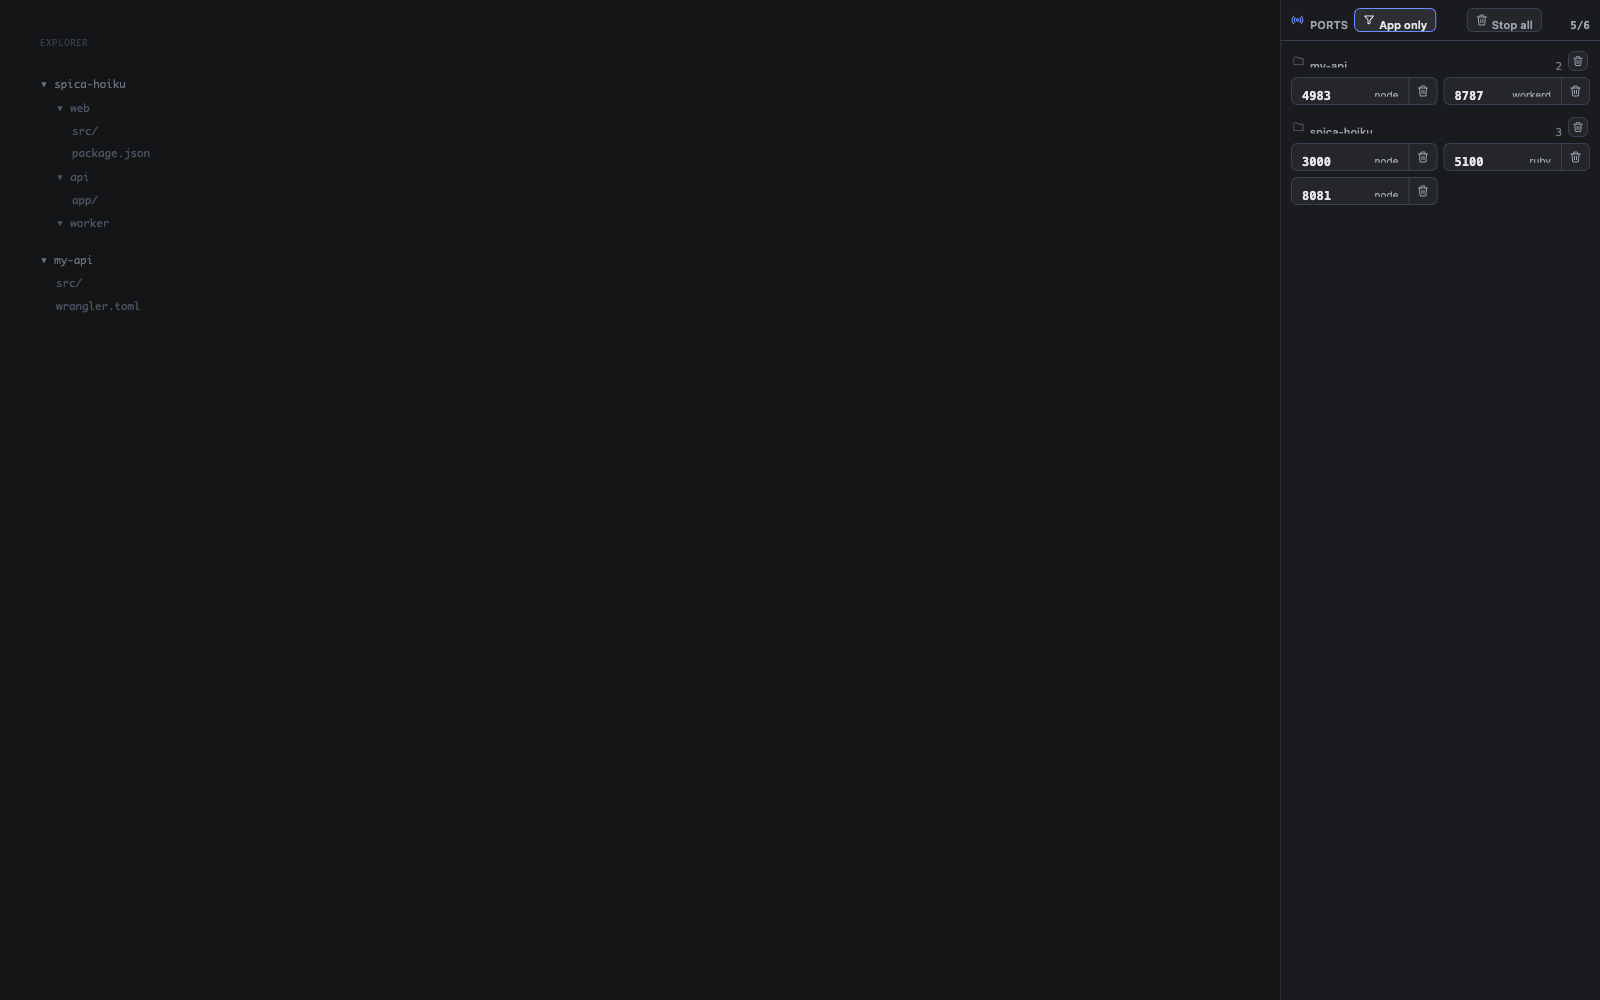
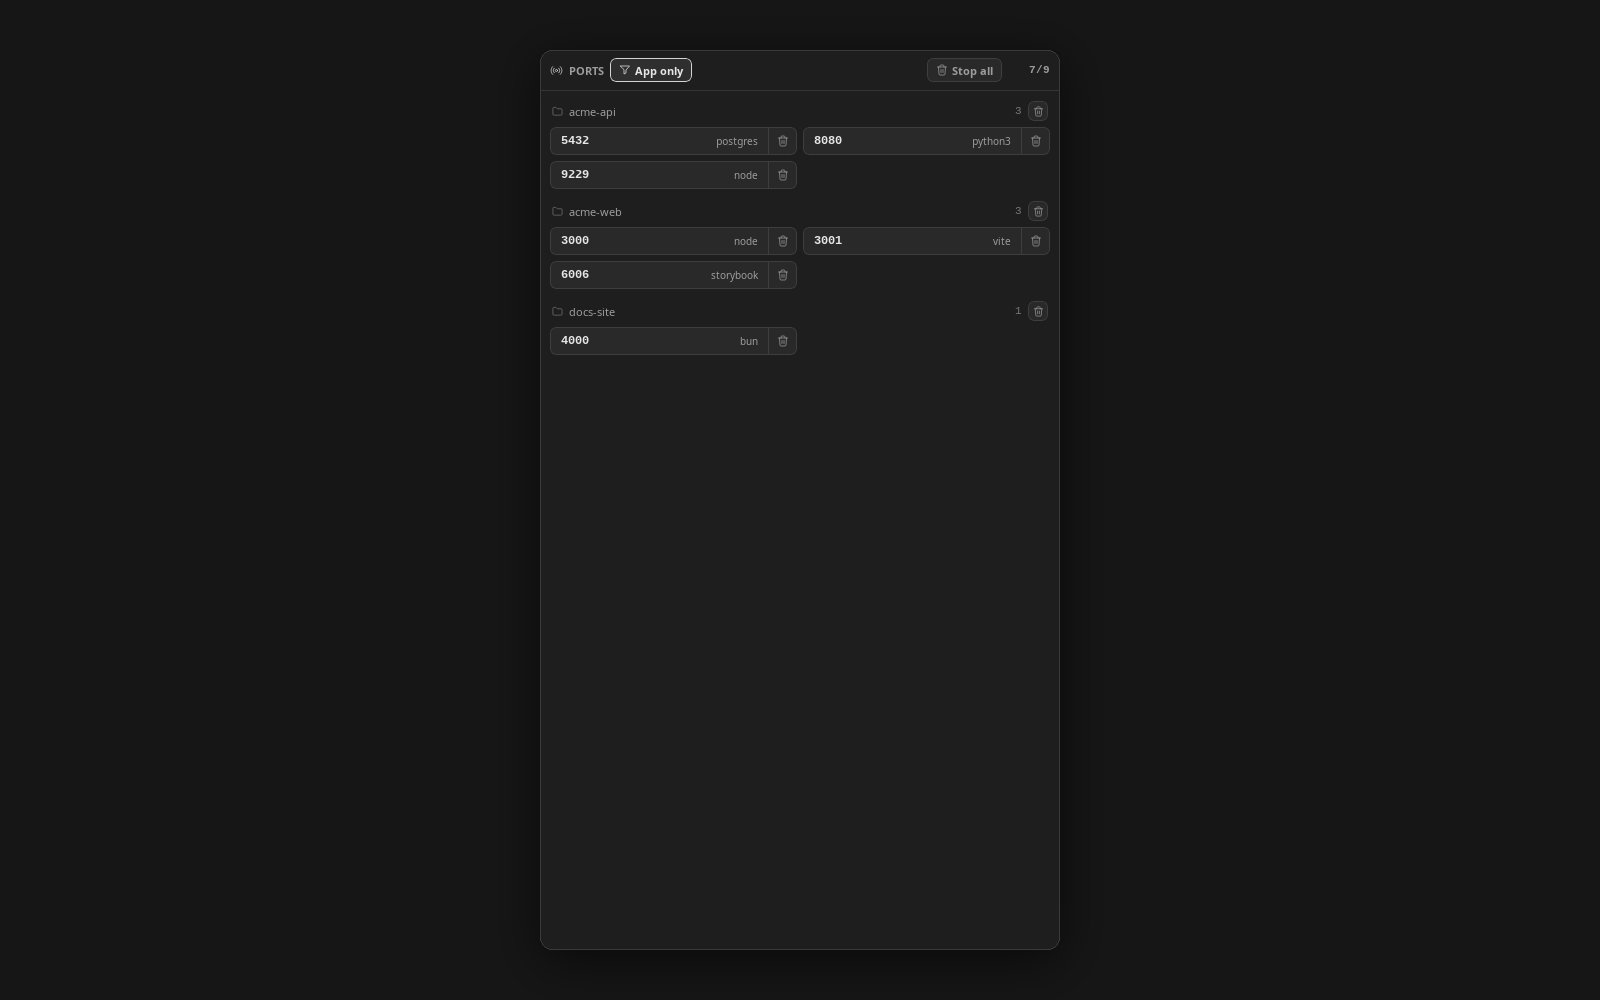
ports 0.1.1: neutral listing screenshot, credits (#24)

diff --git a/tools/harness/fixtures/ports.js b/tools/harness/fixtures/ports.js
@@ -1,0 +1,30 @@
+// Sample listening ports for the ports extension. The real background process scans with lsof
+// and emits extension.ports.data; here the fixture plays that role.
+(() => {
+  const h = window.__harness;
+  const records = [
+    { port: 3000, pid: 41210, command: "node", cwd: "/home/dev/acme-web" },
+    { port: 3001, pid: 41233, command: "vite", cwd: "/home/dev/acme-web/apps/admin" },
+    { port: 6006, pid: 41502, command: "storybook", cwd: "/home/dev/acme-web" },
+    { port: 8080, pid: 40871, command: "python3", cwd: "/home/dev/acme-api" },
+    { port: 5432, pid: 40120, command: "postgres", cwd: "/home/dev/acme-api/db" },
+    { port: 9229, pid: 40880, command: "node", cwd: "/home/dev/acme-api" },
+    { port: 4000, pid: 42011, command: "bun", cwd: "/home/dev/docs-site" },
+    { port: 5353, pid: 910, command: "avahi-daemon", cwd: "/var/run/avahi-daemon" },
+    { port: 631, pid: 884, command: "cupsd", cwd: "/etc/cups" },
+  ];
+  h.set("projects.list", async () => [
+    { id: "p1", name: "acme-web", path: "/home/dev/acme-web", isActive: true },
+    { id: "p2", name: "acme-api", path: "/home/dev/acme-api" },
+    { id: "p3", name: "docs-site", path: "/home/dev/docs-site" },
+  ]);
+  const events = window.atur.events;
+  events.subscribe("extension.ports.request", () => events.emit("extension.ports.data", { records }));
+
+  const sleep = (ms) => new Promise((r) => setTimeout(r, ms));
+  window.addEventListener("load", async () => {
+    for (let i = 0; i < 100 && document.querySelectorAll("button[title^='Stop port']").length < 7; i += 1) await sleep(100);
+    await sleep(400);
+    window.__ready = true;
+  });
+})();

diff --git a/extensions/ports/README.md b/extensions/ports/README.md
@@ -29,3 +29,7 @@ npm run build   # or: npm run dev
 ```
 
 After rebuilding, click **Reload** in the Atur Terminal Extensions modal to pick up changes.
+
+## Credits
+
+Originally published in muxy-app/extensions (MIT) by mountain1009. Maintained by Atur Terminal.
